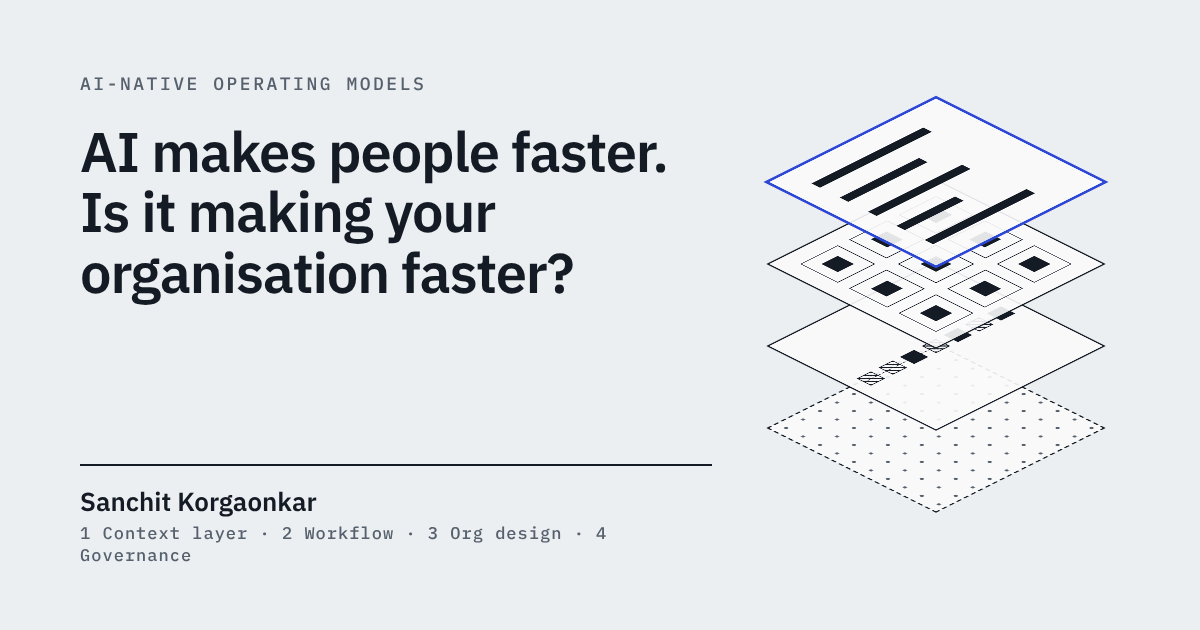
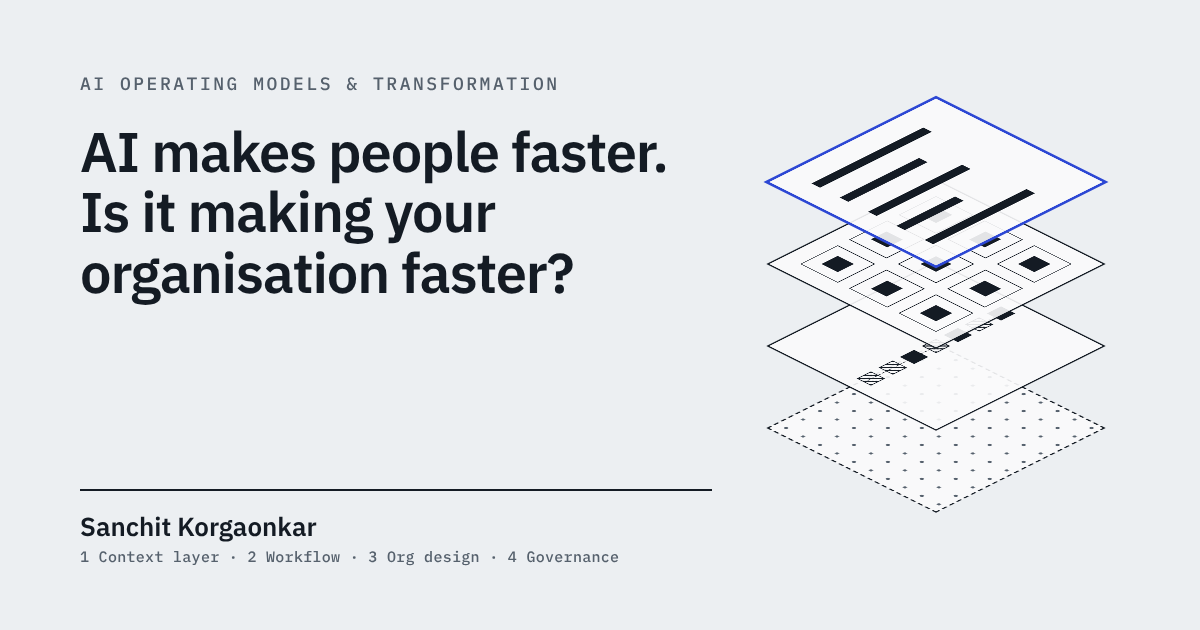
Unify positioning: AI operating models & transformation
- Header tagline matches the About page, LinkedIn and résumé
- Homepage eyebrow: Field notes from inside an AI transformation
- Share images: new label; layer list kept on one line

Claude-Session: https://claude.ai/code/session_01E4CYKML3CpARvCWn8xb54G

Changed region(s): [[0.0617, 0.7238, 0.5858, 0.9048], [0.0925, 0.1206, 0.4625, 0.1508]]

diff --git a/src/_data/site.js b/src/_data/site.js
@@ -1,7 +1,7 @@
 module.exports = {
   url: "https://sanchitkorgaonkar.me",
   name: "Sanchit Korgaonkar",
-  tagline: "AI-native operating models",
+  tagline: "AI operating models & transformation",
   description: "The context work depends on, how work flows, how teams are shaped and how leaders see: four layers of an AI-native organisation, from someone redesigning them from the inside.",
   ogImage: "/assets/og/default.png",
   email: "sanchit.korgaonkar@gmail.com",
